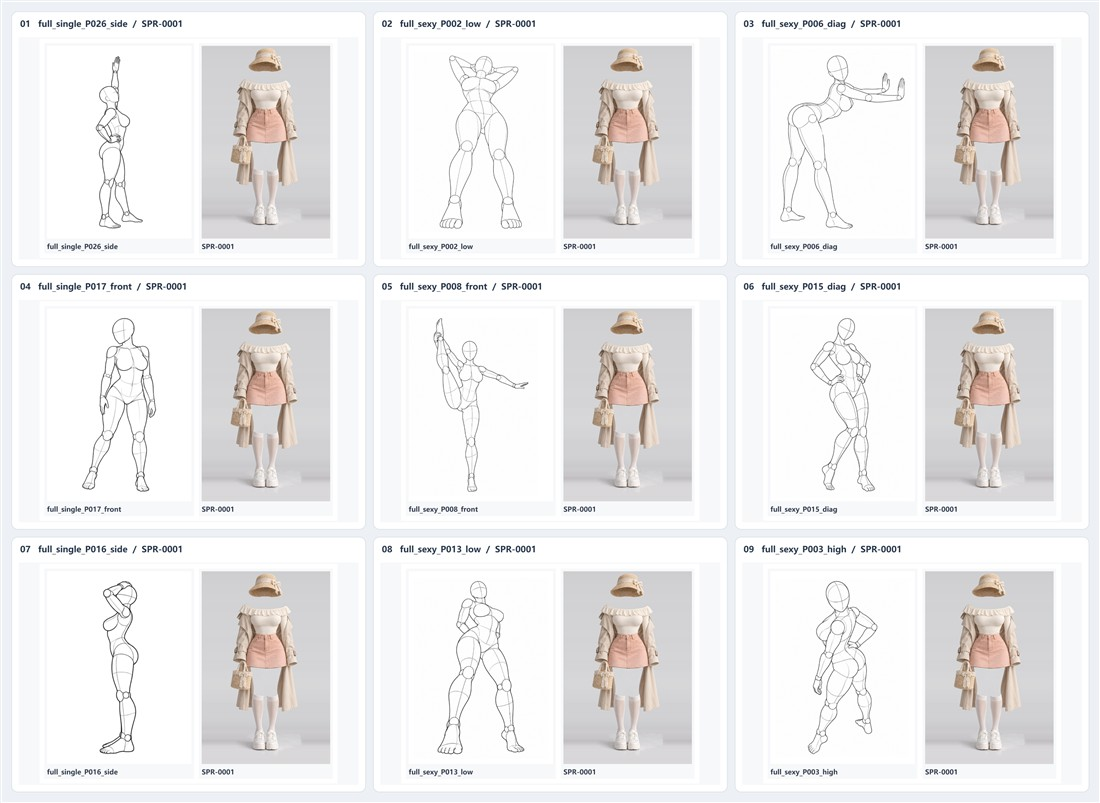
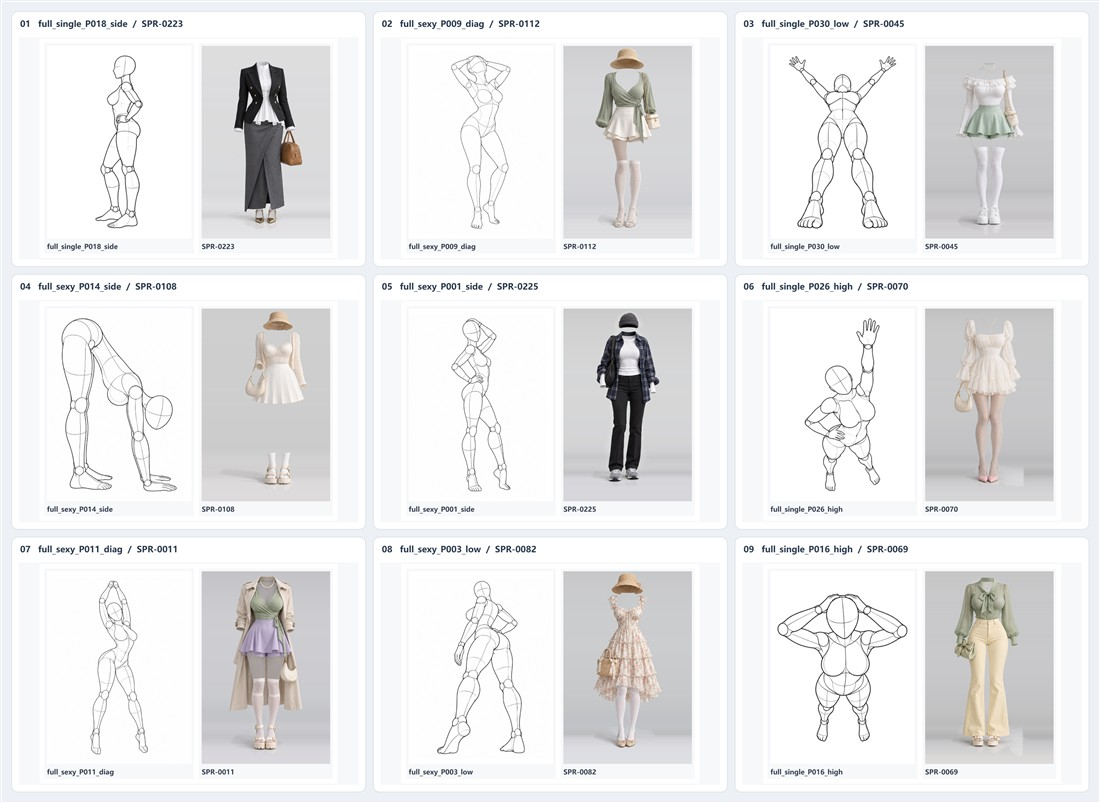
Refresh README nine-grid with unique randomized looks

diff --git a/README.md b/README.md
@@ -83,7 +83,7 @@ cd ai-reference-gallery
 
 ![AI Reference Gallery Skill 四宫格示例](docs/skill-four-grid.jpg)
 
-**九宫格：**固定同一套服装，对比 9 种姿势。
+**九宫格：**从站姿与春季服装中随机抽取 9 组组合，**每格的姿势与服装都不重复**。
 
 ![AI Reference Gallery Skill 九宫格示例](docs/skill-nine-grid.jpg)
 
@@ -107,8 +107,8 @@ node .agents/skills/ai-reference-gallery/scripts/gallery.cjs compose --pose-cate
 # 3. 四宫格：4 组春季搭配合成 1 张 PNG
 node .agents/skills/ai-reference-gallery/scripts/gallery.cjs grid --size 4 --pose-category 站姿 --outfit-category spring --seed four-demo --out output/four-grid.png
 
-# 4. 九宫格：固定服装，展示 9 种姿势
-node .agents/skills/ai-reference-gallery/scripts/gallery.cjs grid --size 9 --outfit-id SPR-0001 --seed nine-demo --out output/nine-grid.png
+# 4. 九宫格：随机生成 9 组不重复的姿势与服装
+node .agents/skills/ai-reference-gallery/scripts/gallery.cjs grid --size 9 --pose-category 站姿 --outfit-category spring --seed readme-nine-random-v3 --out output/nine-grid.png
 
 # 5. 加入自己的角色照片，生成三图参考板
 node .agents/skills/ai-reference-gallery/scripts/gallery.cjs compose --pose-id full_sexy_P001_front --outfit-id SPR-0001 --person "C:/Photos/person.png" --out output/my-reference.png
